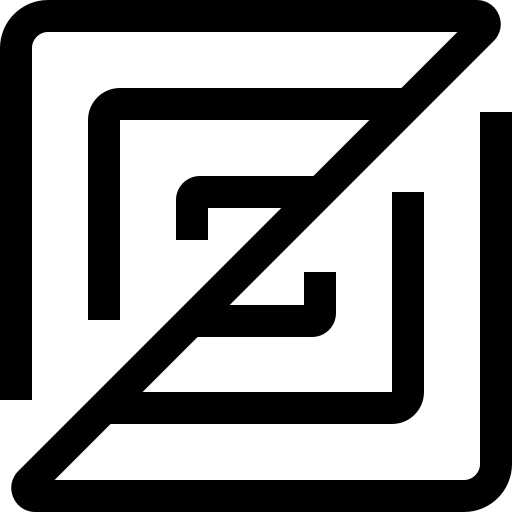
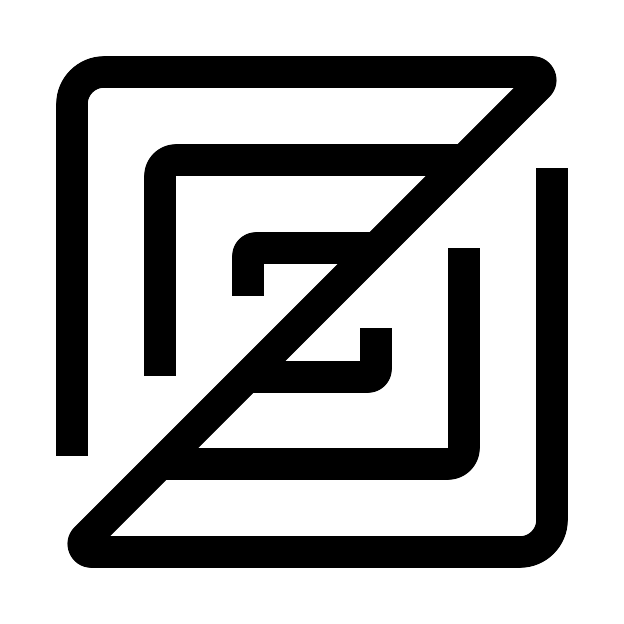
feat(ui): split the open-with trigger, shrink the zed mark
The trigger's left half now opens the workspace in the selected app
directly; only the chevron half toggles the picker, each with its own
hover wash. The Zed PNGs gain a transparent margin (624px canvas, glyph
at ~82%) so the mark reads at the same optical size as Cursor's.

diff --git a/crates/ui/src/shell/titlebar.rs b/crates/ui/src/shell/titlebar.rs
@@ -361,44 +361,35 @@ impl Shell {
             .flex_row()
             .items_center()
             .rounded(px(8.0))
-            .cursor_pointer()
-            .bg(if menu_open {
-                theme.glass_hover()
-            } else {
-                theme.glass_hover().opacity(0.55)
-            })
+            .bg(theme.glass_hover().opacity(0.55))
             .occlude()
-            .on_mouse_down(
-                gpui::MouseButton::Left,
-                cx.listener(|this, _, window, _| {
-                    window.prevent_default();
-                    this.external_app_menu.note_trigger_press();
-                }),
-            )
-            .on_click(cx.listener(|this, _, _, cx| {
-                cx.stop_propagation();
-                if this.external_app_menu.take_press_was_open() {
-                    this.close_external_app_menu(cx);
-                } else {
-                    this.external_app_menu.open(this.selected_external_app());
-                    cx.notify();
-                }
-            }))
-            .tooltip(move |_, cx| {
-                cx.new(|_| {
-                    crate::image_viewer::ViewerTooltip(
-                        format!("Open workspace in {}", selected.label()).into(),
-                    )
-                })
-                .into()
-            })
+            // Left half: open the workspace in the selected app immediately.
             .child(
                 div()
+                    .id("open-with-open")
                     .w(px(24.0))
                     .h_full()
                     .flex()
                     .items_center()
                     .justify_center()
+                    .rounded_l(px(8.0))
+                    .cursor_pointer()
+                    .hover(|style| style.bg(theme.glass_hover()))
+                    .on_mouse_down(gpui::MouseButton::Left, |_, window, _| {
+                        window.prevent_default();
+                    })
+                    .on_click(cx.listener(move |this, _, _, cx| {
+                        cx.stop_propagation();
+                        this.open_workspace_in(selected, cx);
+                    }))
+                    .tooltip(move |_, cx| {
+                        cx.new(|_| {
+                            crate::image_viewer::ViewerTooltip(
+                                format!("Open workspace in {}", selected.label()).into(),
+                            )
+                        })
+                        .into()
+                    })
                     .child(
                         img(selected.icon(theme.appearance))
                             .size(px(16.0))
@@ -411,12 +402,40 @@ impl Shell {
                     .h(px(18.0))
                     .bg(crate::theme::hairline(0.08)),
             )
+            // Right half: toggle the app-picker menu.
             .child(
-                div().flex_1().flex().items_center().justify_center().child(
-                    icon(icons::ALT_ARROW_DOWN)
-                        .size(px(14.0))
-                        .text_color(theme.text_muted),
-                ),
+                div()
+                    .id("open-with-menu")
+                    .flex_1()
+                    .h_full()
+                    .flex()
+                    .items_center()
+                    .justify_center()
+                    .rounded_r(px(8.0))
+                    .cursor_pointer()
+                    .when(menu_open, |el| el.bg(theme.glass_hover()))
+                    .hover(|style| style.bg(theme.glass_hover()))
+                    .on_mouse_down(
+                        gpui::MouseButton::Left,
+                        cx.listener(|this, _, window, _| {
+                            window.prevent_default();
+                            this.external_app_menu.note_trigger_press();
+                        }),
+                    )
+                    .on_click(cx.listener(|this, _, _, cx| {
+                        cx.stop_propagation();
+                        if this.external_app_menu.take_press_was_open() {
+                            this.close_external_app_menu(cx);
+                        } else {
+                            this.external_app_menu.open(this.selected_external_app());
+                            cx.notify();
+                        }
+                    }))
+                    .child(
+                        icon(icons::ALT_ARROW_DOWN)
+                            .size(px(14.0))
+                            .text_color(theme.text_muted),
+                    ),
             );
 
         if menu_open || self.external_app_menu.is_closing() {
